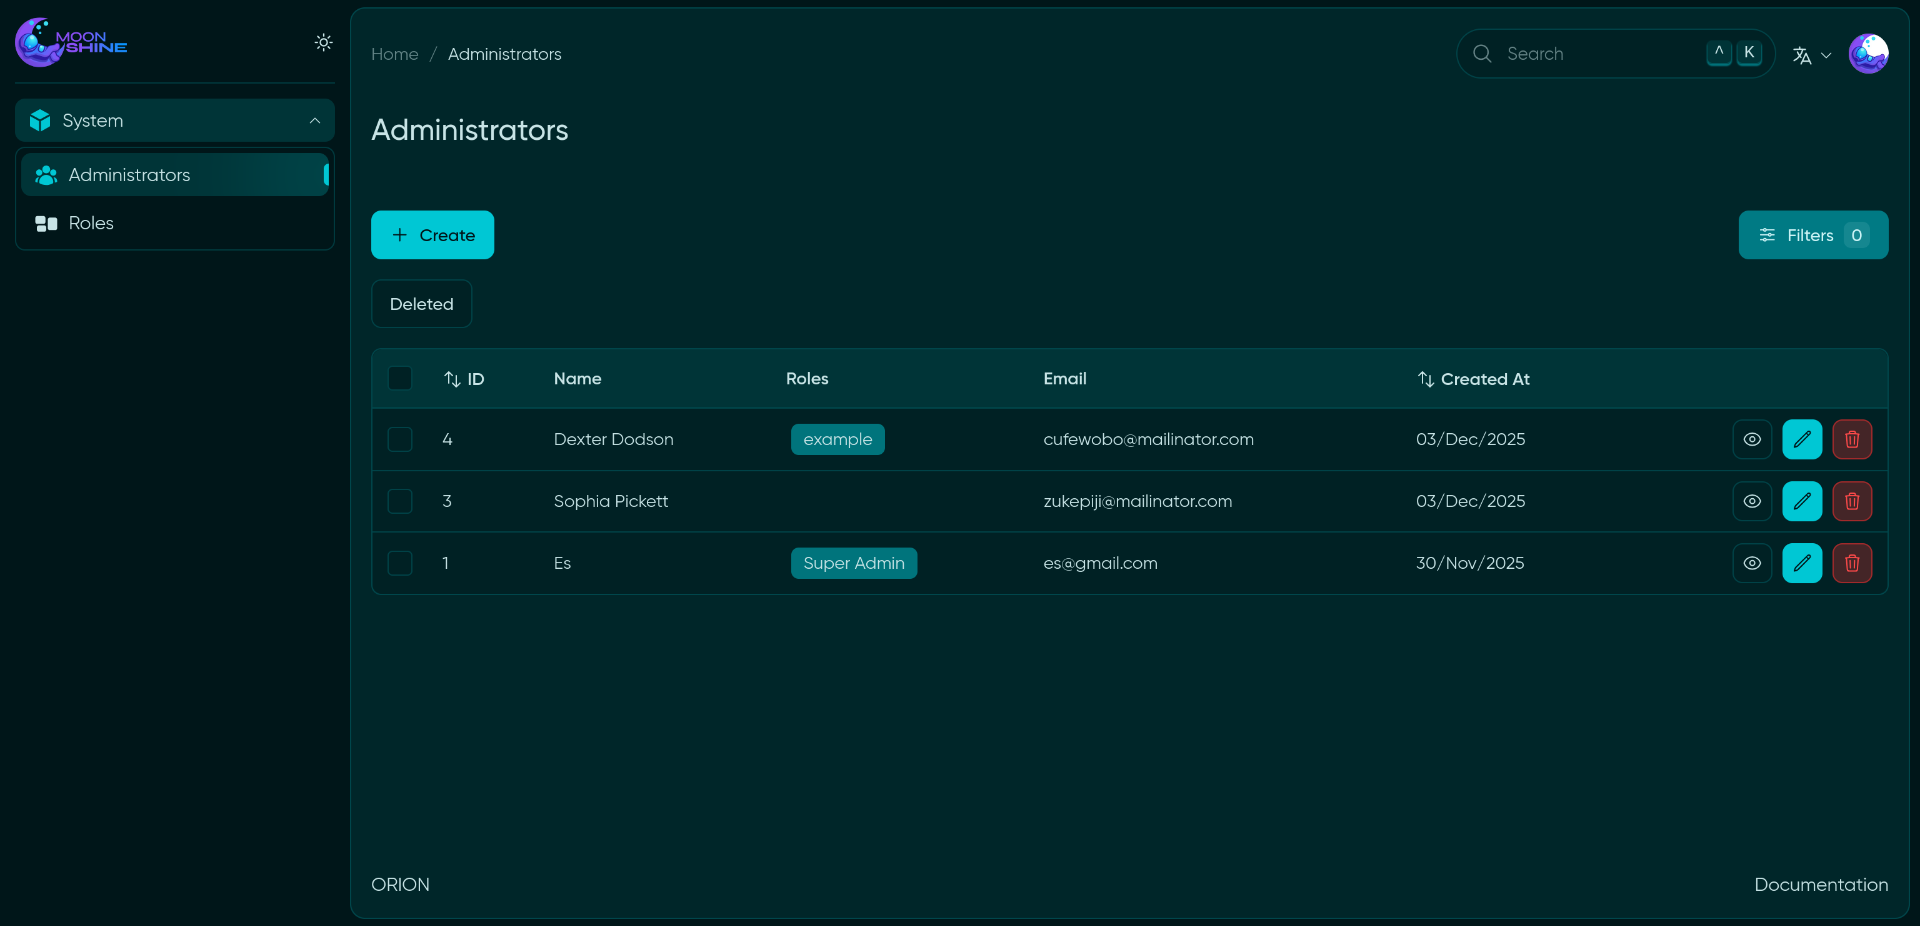
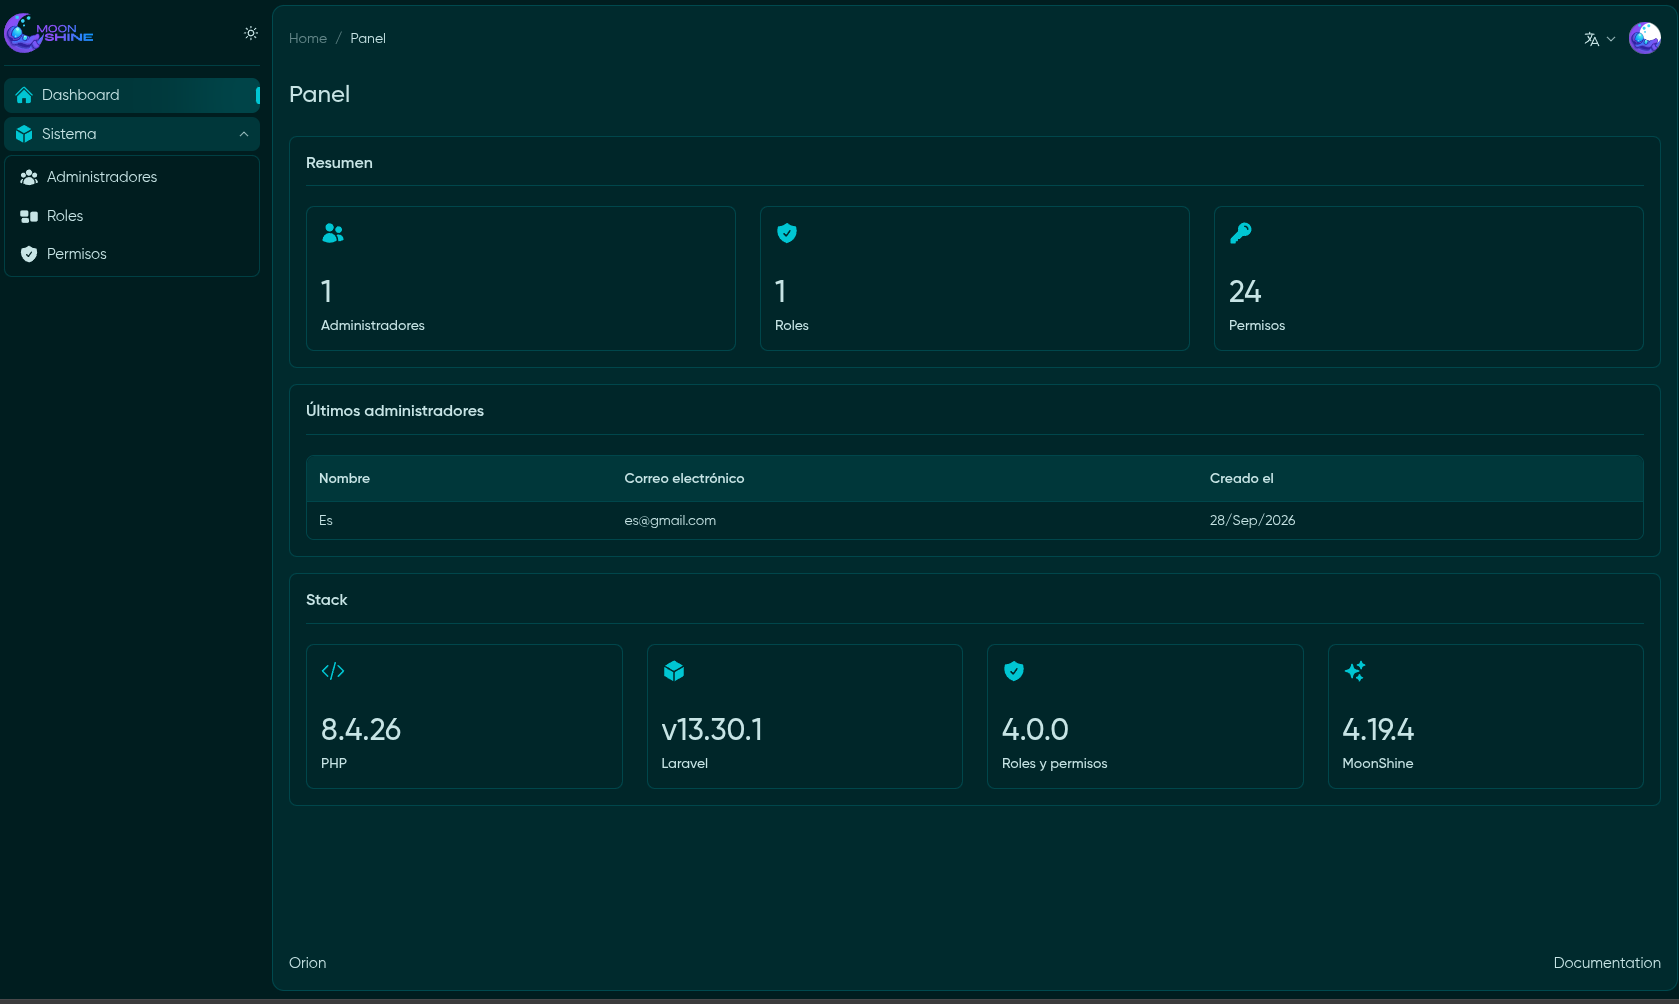
release: v1.0.0

diff --git a/CHANGELOG.md b/CHANGELOG.md
@@ -1,0 +1,15 @@
+# Changelog
+
+## [1.0.0] - 2026-09-29
+
+First release. Requires PHP 8.4.1+.
+
+-   Laravel 13, MoonShine 4.19.4, Tailwind CSS 4
+-   Roles and permissions
+-   `php artisan launch:install` — installs everything
+-   `php artisan launch:permissions` — regenerates permissions
+-   Preconfigured panel: layout, menu, dashboard, login
+-   `AdminResource`, `RoleResource`, `PermissionResource`
+-   Dashboard with admins, roles, permissions and stack versions
+-   Traits `WithProperties`, `WithSoftDeletes`, `WithTrashedQuery`
+-   English and Spanish

diff --git a/README.md b/README.md
@@ -8,7 +8,7 @@
 
 | Package                     | Version | Description                  |
 | --------------------------- | ------- | ---------------------------- |
-| PHP                         | ^8.3    | Runtime                      |
+| PHP                         | ^8.4.1  | Runtime                      |
 | Laravel                     | v13     | Core PHP framework           |
 | MoonShine                   | v4      | Admin panel                  |
 | moonshine-roles-permissions | v4      | Roles and permissions system |
